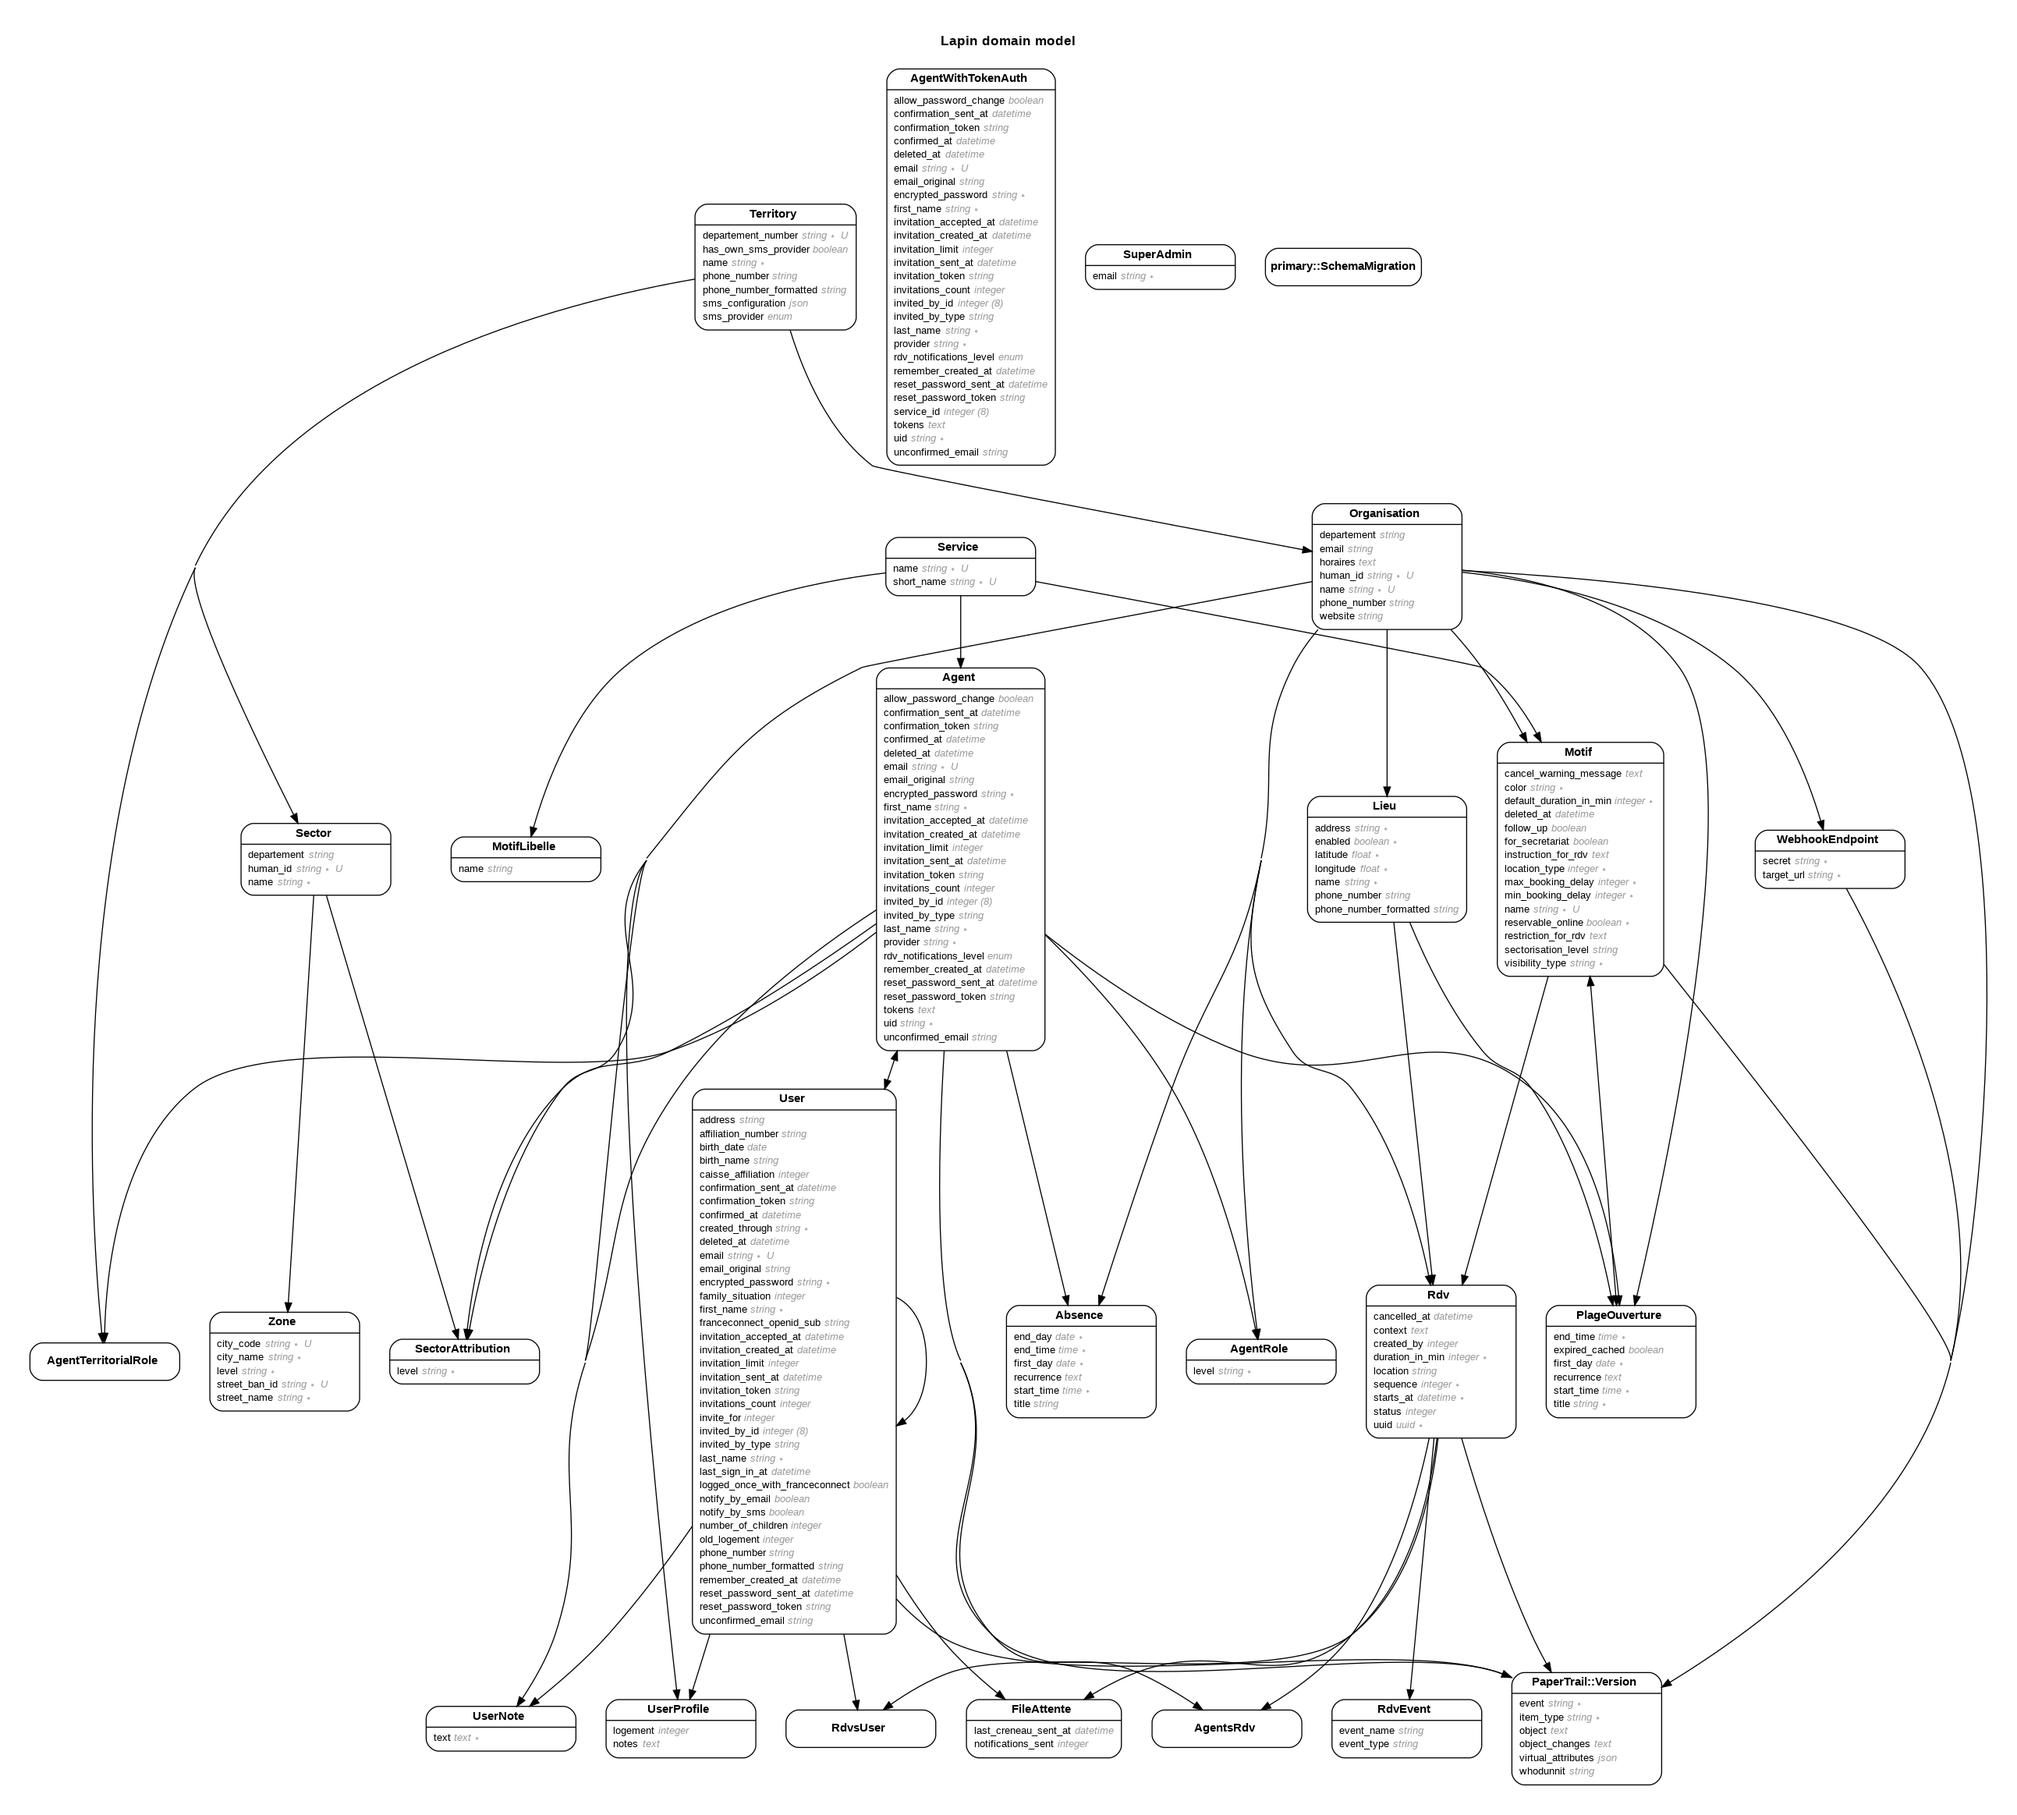
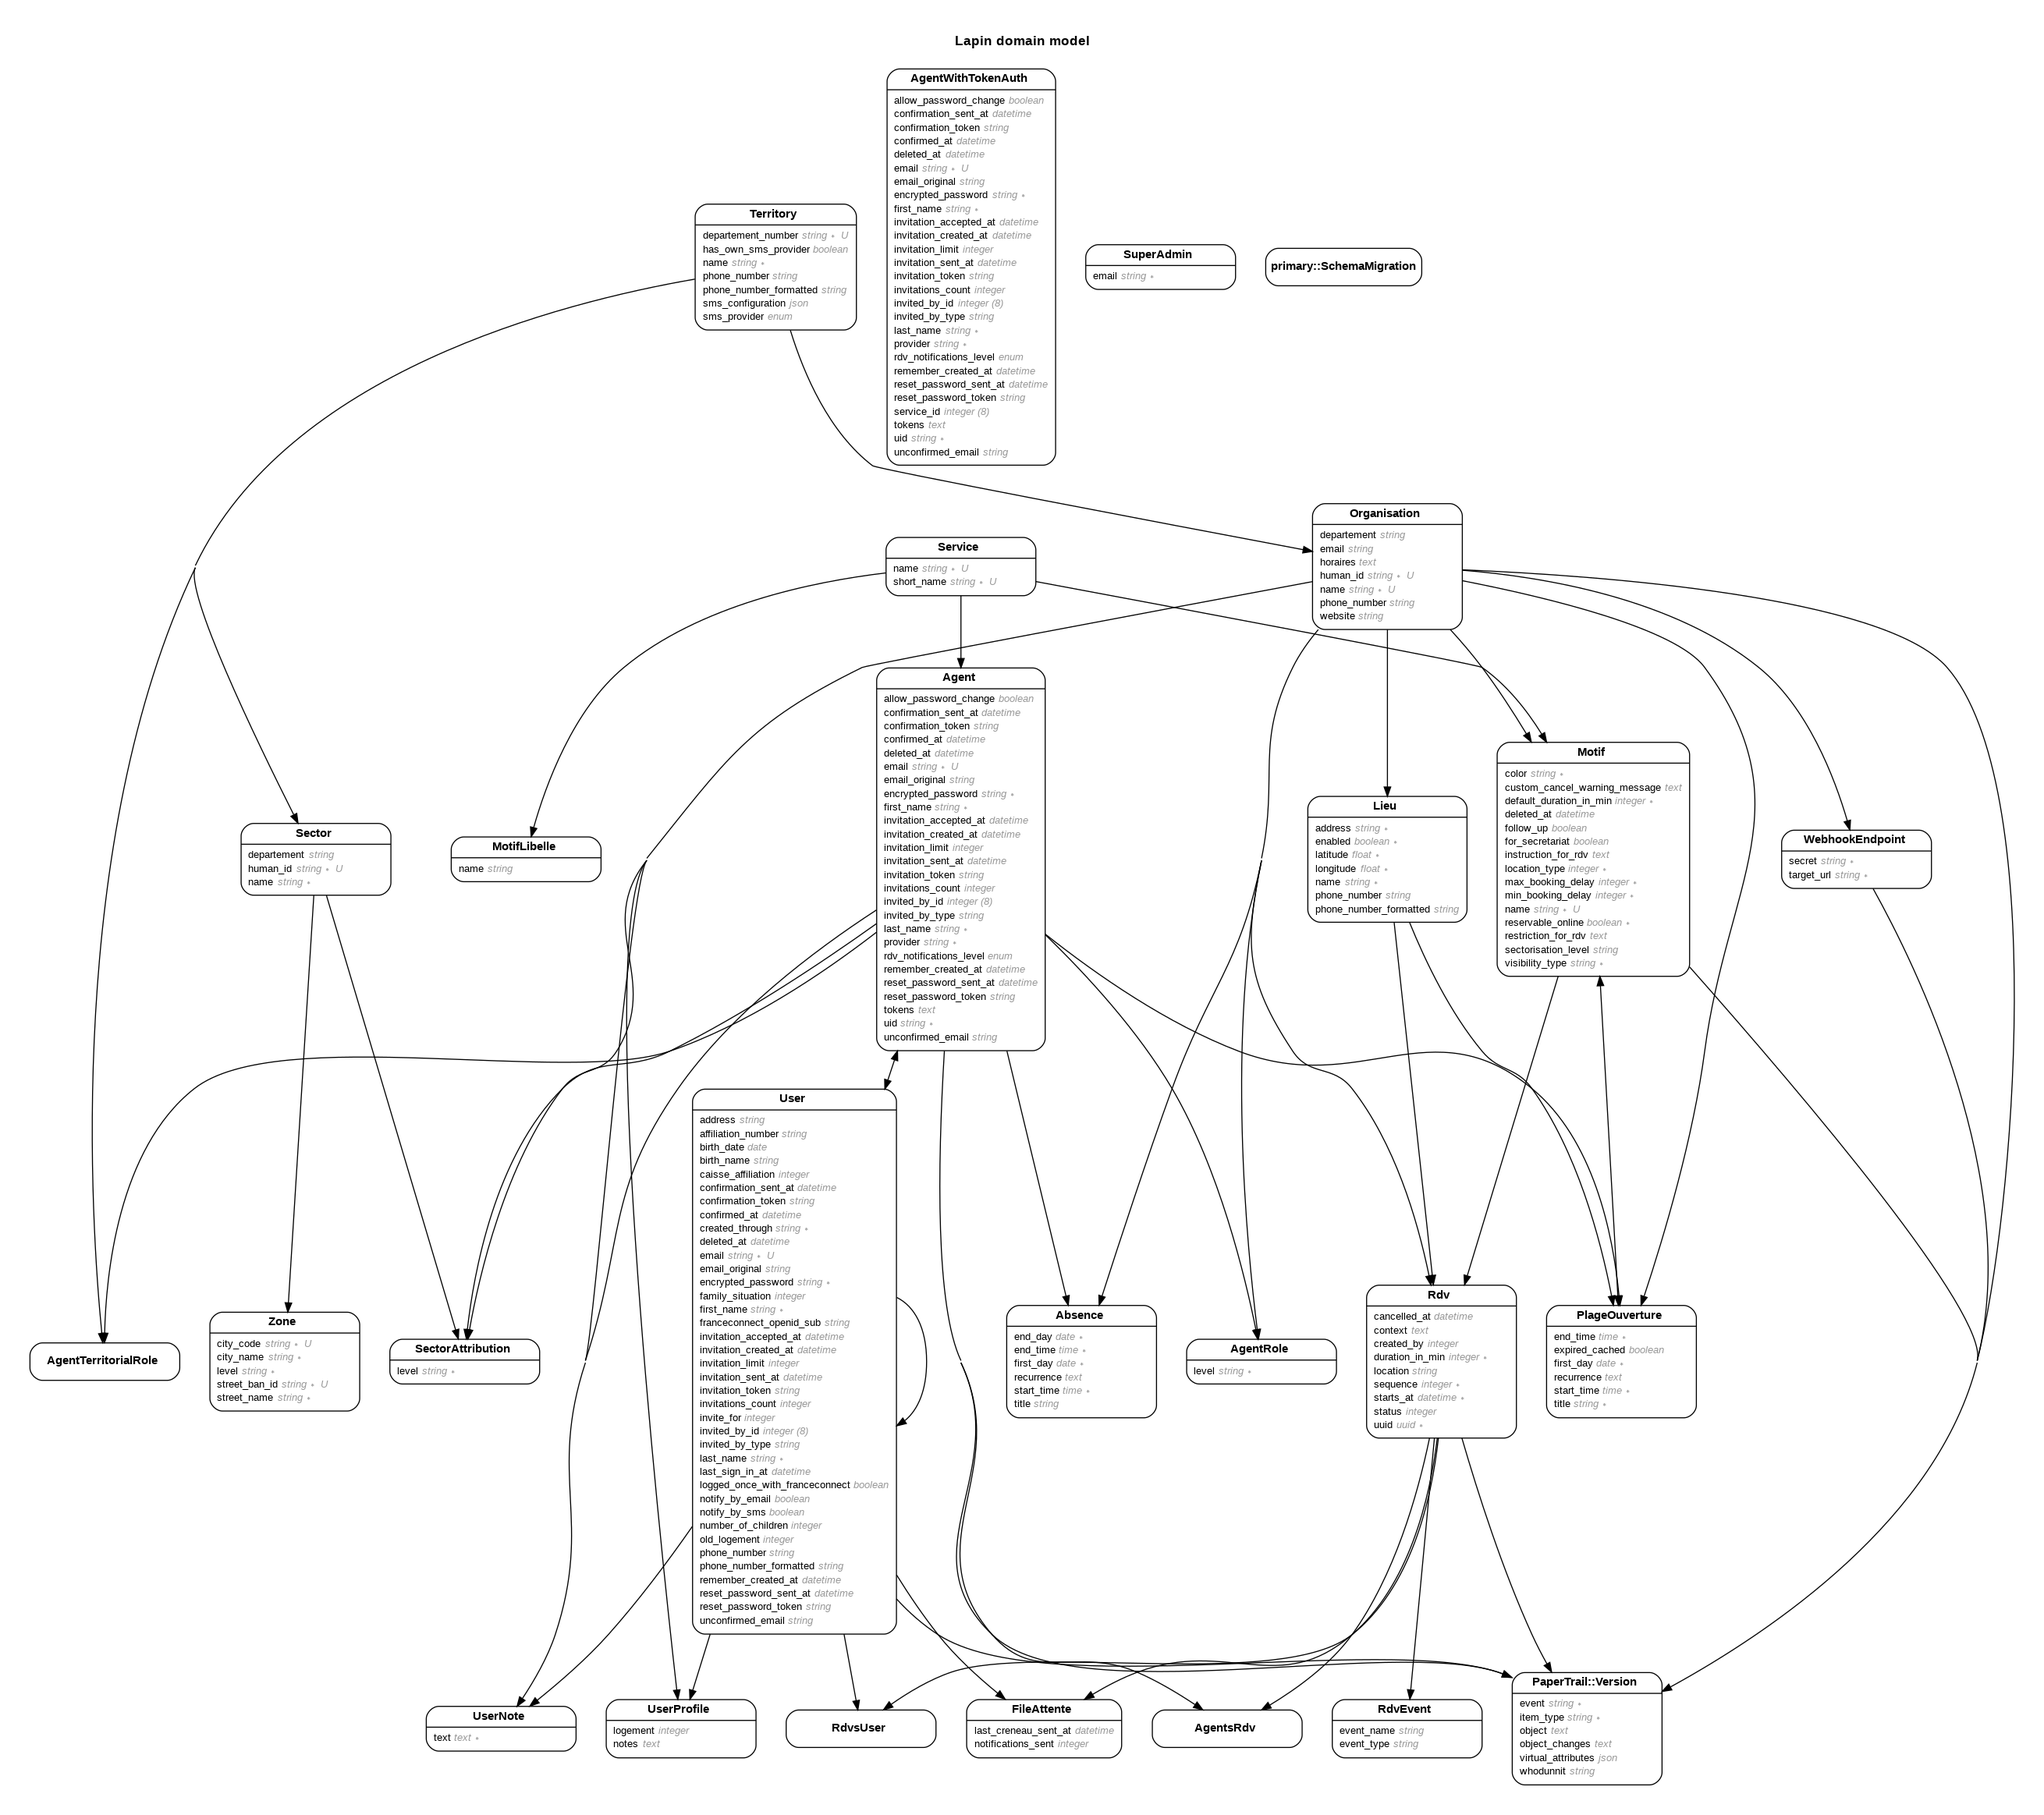
Feat/Avertissement avant annulation (#1500)
* Possibilité de personaliser le message d'avertissement avant annulation d'un rdv

* frozen_string_literal for linter

* ajout de motif_attributes

* small refacto

* PR suggested changes

* naming changes

* move cancellation_warning to motif model

* front small fix

diff --git a/app/dashboards/motif_dashboard.rb b/app/dashboards/motif_dashboard.rb
@@ -17,6 +17,7 @@ class MotifDashboard < Administrate::BaseDashboard
     color: Field::String,
     restriction_for_rdv: Field::Text,
     instruction_for_rdv: Field::Text,
+    custom_cancel_warning_message: Field::Text,
     reservable_online: Field::Boolean,
     location_type: EnumField,
     for_secretariat: Field::Boolean,
@@ -54,6 +55,7 @@ class MotifDashboard < Administrate::BaseDashboard
     for_secretariat
     restriction_for_rdv
     instruction_for_rdv
+    custom_cancel_warning_message
     default_duration_in_min
     min_booking_delay
     max_booking_delay
@@ -80,6 +82,7 @@ class MotifDashboard < Administrate::BaseDashboard
     visibility_type
     restriction_for_rdv
     instruction_for_rdv
+    custom_cancel_warning_message
     deleted_at
   ].freeze
 

diff --git a/db/schema.rb b/db/schema.rb
@@ -217,7 +217,7 @@ ActiveRecord::Schema.define(version: 2021_06_07_154248) do
     t.boolean "follow_up", default: false
     t.string "visibility_type", default: "visible_and_notified", null: false
     t.string "sectorisation_level", default: "departement"
-    t.text "cancel_warning_message"
+    t.text "custom_cancel_warning_message"
     t.index ["deleted_at"], name: "index_motifs_on_deleted_at"
     t.index ["name", "organisation_id", "location_type", "service_id"], name: "index_motifs_on_name_scoped", unique: true, where: "(deleted_at IS NULL)"
     t.index ["organisation_id"], name: "index_motifs_on_organisation_id"

diff --git a/app/controllers/admin/motifs_controller.rb b/app/controllers/admin/motifs_controller.rb
@@ -85,8 +85,7 @@ class Admin::MotifsController < AgentAuthController
 
   def motif_params
     params.require(:motif)
-      .permit(:name,
-              :service_id,
+      .permit(:name, :service_id,
               :color,
               :default_duration_in_min,
               :reservable_online,
@@ -96,6 +95,7 @@ class Admin::MotifsController < AgentAuthController
               :visibility_type,
               :restriction_for_rdv,
               :instruction_for_rdv,
+              :custom_cancel_warning_message,
               :for_secretariat,
               :follow_up,
               :sectorisation_level)

diff --git a/app/models/motif.rb b/app/models/motif.rb
@@ -116,6 +116,10 @@ class Motif < ApplicationRecord
     sectorisation_level == SECTORISATION_LEVEL_DEPARTEMENT
   end
 
+  def cancellation_warning
+    custom_cancel_warning_message || I18n.t("activerecord.attributes.motif.default_cancel_warning_message")
+  end
+
   private
 
   def booking_delay_validation

diff --git a/db/migrate/20210607154248_add_cancel_warning_message_to_motif.rb b/db/migrate/20210607154248_add_cancel_warning_message_to_motif.rb
@@ -1,0 +1,7 @@
+# frozen_string_literal: true
+
+class AddCancelWarningMessageToMotif < ActiveRecord::Migration[6.0]
+  def change
+    add_column :motifs, :custom_cancel_warning_message, :text
+  end
+end
